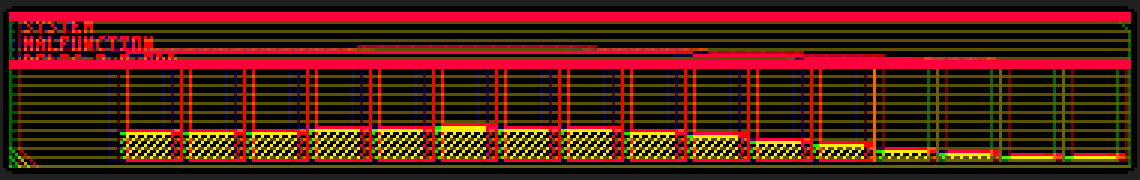
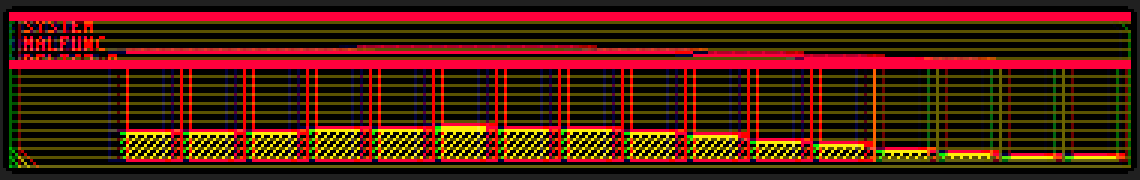
night: readout labels clip to their column; malfunction words fit the 34 px readout

Changed region(s): [[0.0614, 0.1944, 0.1535, 0.3333]]

diff --git a/src/render/night.rs b/src/render/night.rs
@@ -372,51 +372,62 @@ impl Night {
     fn draw_readouts(&self, c: &mut Canvas, origin: (i32, i32), h: i32, d: &FrameData, edge: Rgba, value: Rgba) {
         let (ix0, iy0) = origin;
         let x = ix0 + 2;
+        let right = ix0 + READOUT_W; // nothing may paint at or past this column
         let rms = if d.rms_l.is_finite() { d.rms_l.clamp(0.0, 1.0) } else { 0.0 };
         let three = h >= 52;
         let (row_ram, row_hp, row_net) = (iy0 + 2, if three { iy0 + 8 } else { iy0 + 2 }, iy0 + 14);
 
         if three {
             // RAM + four quartile blocks.
-            let lw = font3x5::draw(c, x, row_ram, "RAM", edge);
+            let lw = font3x5::draw(c, x, row_ram, clip_label("RAM", right - x), edge);
             let filled = (rms * 4.0).round() as i32;
             let bx0 = x + lw + 2;
             for i in 0..4 {
                 let bx = bx0 + i * 4;
+                if bx + 3 > right {
+                    break; // a block would cross into the cells
+                }
                 let col = if i < filled { value } else { edge };
                 c.fill_rect(bx, row_ram, 3, 5, col);
             }
         }
 
         // HP + number.
-        let lw = font3x5::draw(c, x, row_hp, "HP", edge);
+        let lw = font3x5::draw(c, x, row_hp, clip_label("HP", right - x), edge);
         let mut buf = [0u8; 3];
         let s = fmt_u32(self.hp.round() as u32, &mut buf);
-        font3x5::draw(c, x + lw + 2, row_hp, s, value);
+        let vx = x + lw + 2;
+        font3x5::draw(c, vx, row_hp, clip_label(s, right - vx), value);
 
         if three {
             // NET + a two-digit hex byte.
-            let lw = font3x5::draw(c, x, row_net, "NET", edge);
+            let lw = font3x5::draw(c, x, row_net, clip_label("NET", right - x), edge);
             let mut hx = [0u8; 2];
             fmt_hex(self.net_hex, &mut hx);
             if let Ok(s) = std::str::from_utf8(&hx) {
-                font3x5::draw(c, x + lw + 2, row_net, s, value);
+                let vx = x + lw + 2;
+                font3x5::draw(c, vx, row_net, clip_label(s, right - vx), value);
             }
         }
     }
 
-    /// The malfunction telemetry: `SYSTEM` / `MALFUNCTION` / `RELIC 2.0 ERR` in red (white on arasaka),
-    /// drawn over the composed frame so the RGB split fringes it too.
+    /// The malfunction telemetry, in red (white on arasaka), drawn over the composed frame so the RGB
+    /// split fringes it too. The words are chosen to fit whole inside the 34 px column, and every draw
+    /// is clipped by whole glyphs so nothing paints at or past `ix0 + READOUT_W`.
     fn draw_malfunction_readouts(&self, c: &mut Canvas, origin: (i32, i32), h: i32, arasaka: bool, hot: Rgba) {
         let (ix0, iy0) = origin;
         let x = ix0 + 2;
+        let right = ix0 + READOUT_W;
         let col = if arasaka { hot } else { Rgba::from_hex(MALFUNCTION_RED, 1.0) };
+        let draw = |c: &mut Canvas, y: i32, s: &str| {
+            font3x5::draw(c, x, y, clip_label(s, right - x), col);
+        };
         if h >= 52 {
-            font3x5::draw(c, x, iy0 + 2, "SYSTEM", col);
-            font3x5::draw(c, x, iy0 + 8, "MALFUNCTION", col);
-            font3x5::draw(c, x, iy0 + 14, "RELIC 2.0 ERR", col);
+            draw(c, iy0 + 2, "SYSTEM");
+            draw(c, iy0 + 8, "MALFUNC");
+            draw(c, iy0 + 14, "RELIC2.0");
         } else {
-            font3x5::draw(c, x, iy0 + 2, "MALFUNCTION", col);
+            draw(c, iy0 + 2, "MALFUNC");
         }
     }
 
@@ -528,6 +539,18 @@ impl Night {
         }
         self.scratch = Some(scr);
     }
+}
+
+/// The longest whole-glyph prefix of `text` that fits within `max_w` px at the 3x5 font's 4 px pitch
+/// (`font3x5::width(prefix) <= max_w`), so a readout label can never paint past its column. ASCII-only
+/// labels, so a byte prefix is a char prefix.
+fn clip_label(text: &str, max_w: i32) -> &str {
+    if max_w <= 0 {
+        return "";
+    }
+    // width(n chars) = 4n - 1 <= max_w  <=>  n <= (max_w + 1) / 4.
+    let n = (((max_w + 1) / 4) as usize).min(text.len());
+    &text[..n]
 }
 
 /// Formats `v` (0..=999) as decimal into `buf` with no leading zeros, returning the slice.
@@ -684,6 +707,38 @@ mod tests {
             let c = frames(&mut fam, &t, 190, 48, 0.5, 12);
             assert!(lit(&c, &t) > 0, "{id}");
             let _ = frames(&mut Night::default(), &t, 128, 44, 0.6, 5);
+        }
+    }
+
+    #[test]
+    fn readout_labels_never_cross_into_the_cells() {
+        // The malfunction labels must stay inside their 34px column. Measured on a malfunction frame
+        // whose envelope has decayed far enough that the RGB split is off (dx = round(SPLIT_PX*env) = 0)
+        // - so the only bright red in the readout rows is the labels themselves (the glitch bars are
+        // dim at this envelope and the split, which intentionally fringes the WHOLE interior, is not
+        // active here). An unclipped `MALFUNCTION` would paint opaque red past the column into the first
+        // cells; a clipped one cannot.
+        let t = theme("night-liberty");
+        let mut fam = Night::default();
+        let _ = frames(&mut fam, &t, 380, 60, 0.5, 8);
+        fam.flourish.force_next();
+        // Draws needed after the firing frame to bring env into (0.1, 0.5/SPLIT_PX) so dx == 0. The
+        // frames() helper fires on its first draw, so the count includes that one.
+        let per = 16.7 / MALFUNCTION_MS; // env decay per frame at the helper's dt
+        let decays = ((1.0 - 0.13) / per).round() as usize;
+        let c = frames(&mut fam, &t, 380, 60, 0.5, decays + 1);
+        let (ix0, iy0) = (3i32, 4i32);
+        let gap_lo = ix0 + READOUT_W; // 37 - the column's right bound
+        let cell0 = fam.first_cell_x(); // the first cell's left edge
+        assert!(cell0 >= gap_lo, "layout regressed: cell0 {cell0} < column right {gap_lo}");
+        // Opaque #FF003C-ish (the malfunction text). Dim bars at this envelope fall well under r>180.
+        let is_red = |p: Rgba| p.r > 180 && p.g < 80 && (25..100).contains(&(p.b as i32));
+        for &ry in &[iy0 + 2, iy0 + 8, iy0 + 14] {
+            for y in ry..ry + 5 {
+                for x in gap_lo..cell0 {
+                    assert!(!is_red(c.get(x, y)), "a readout label painted red into the cells at {x},{y}");
+                }
+            }
         }
     }
 
